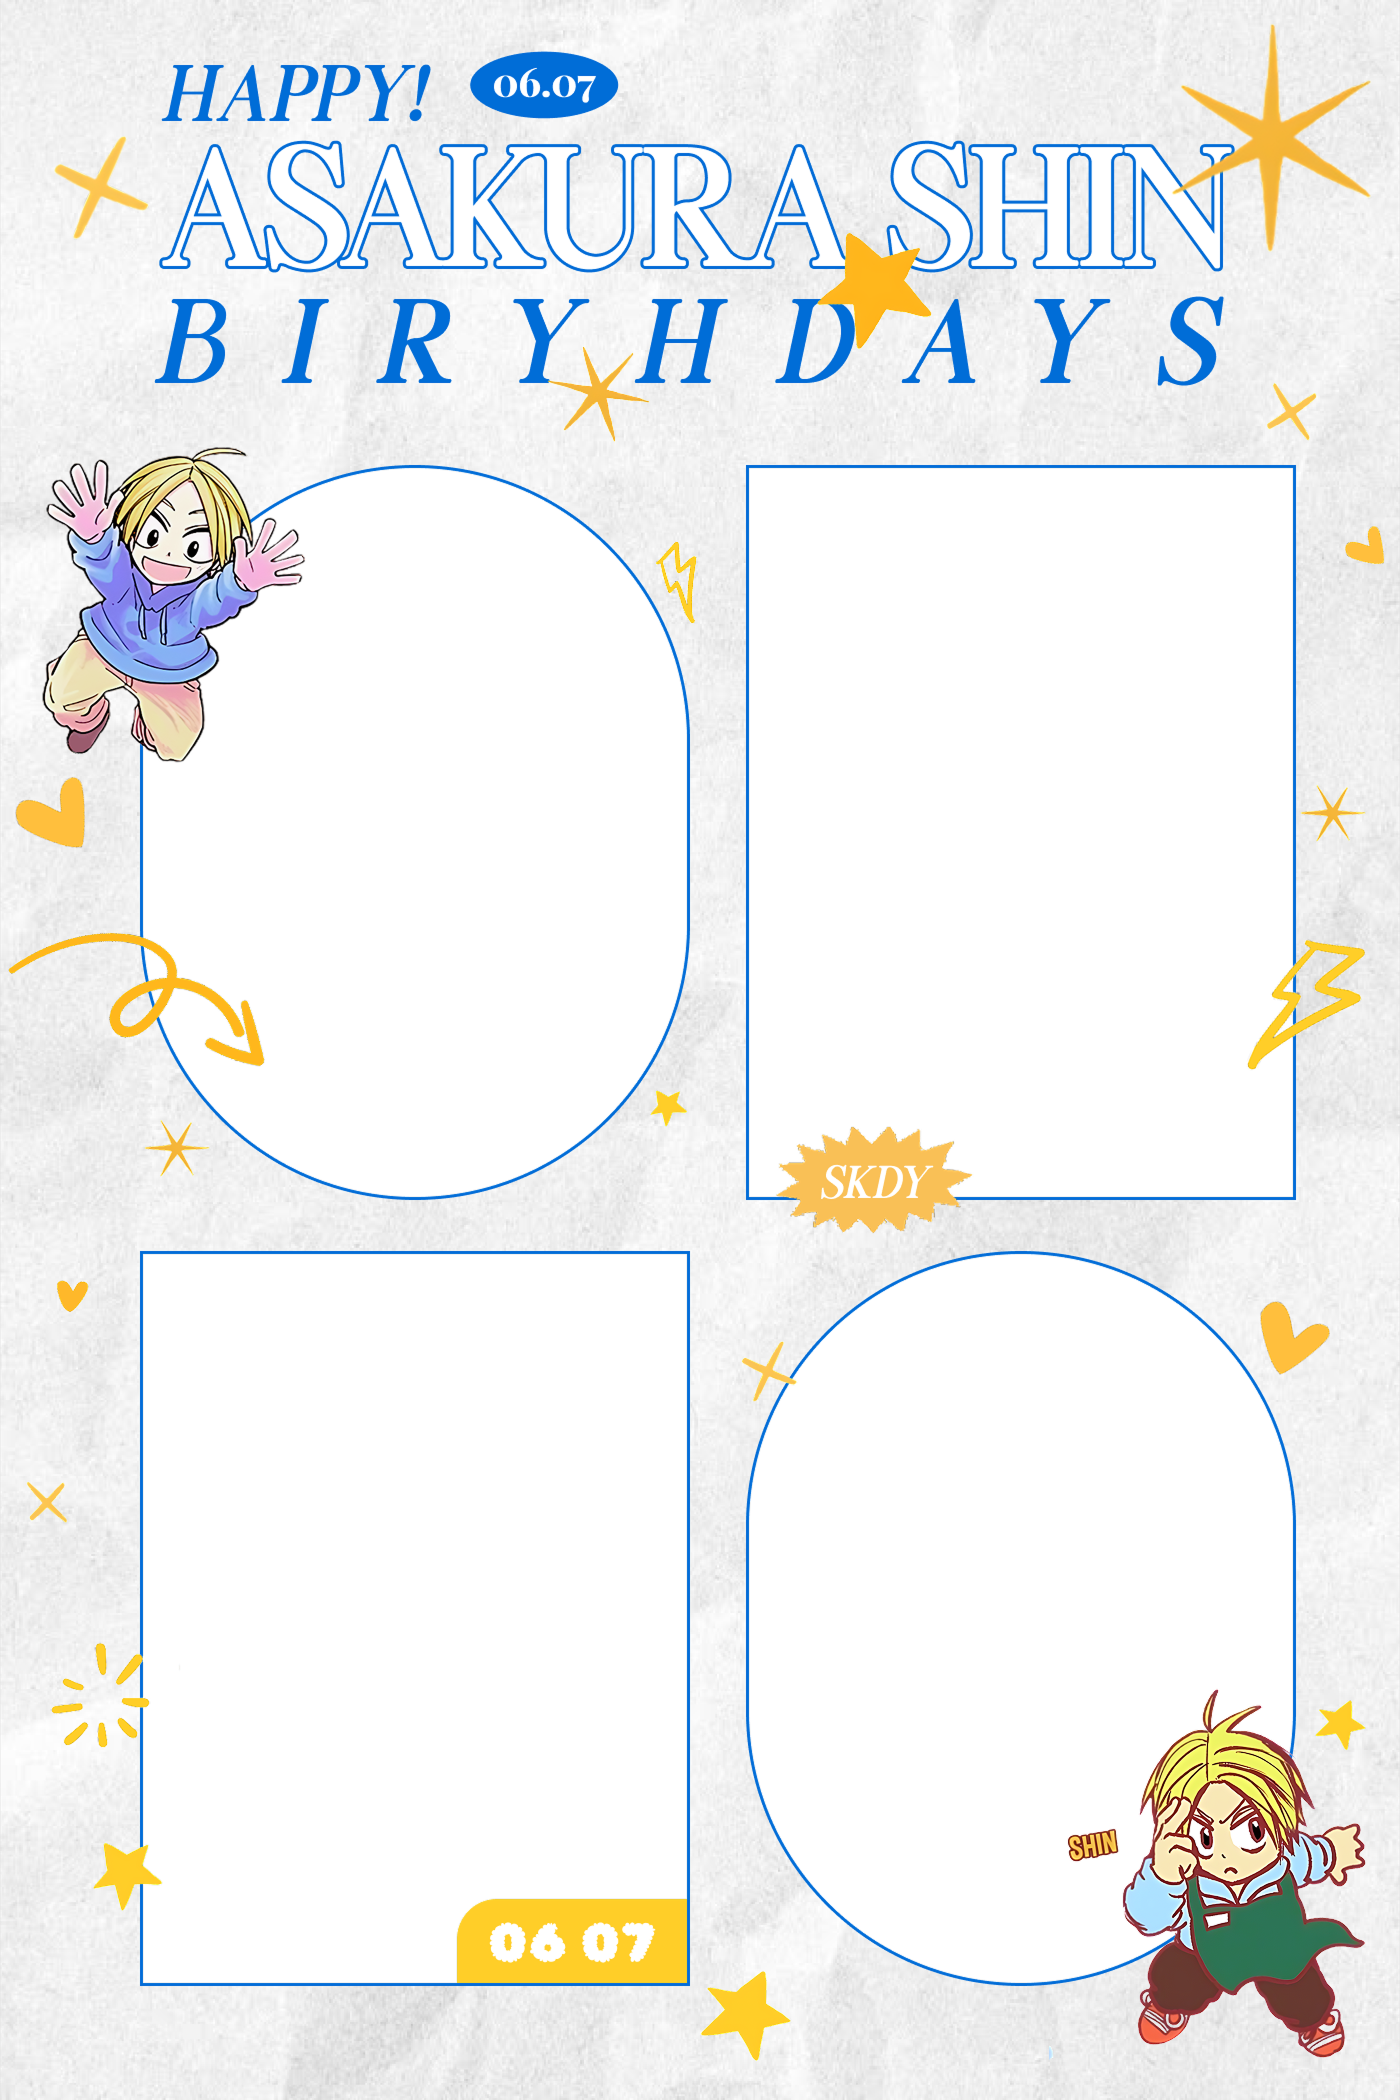
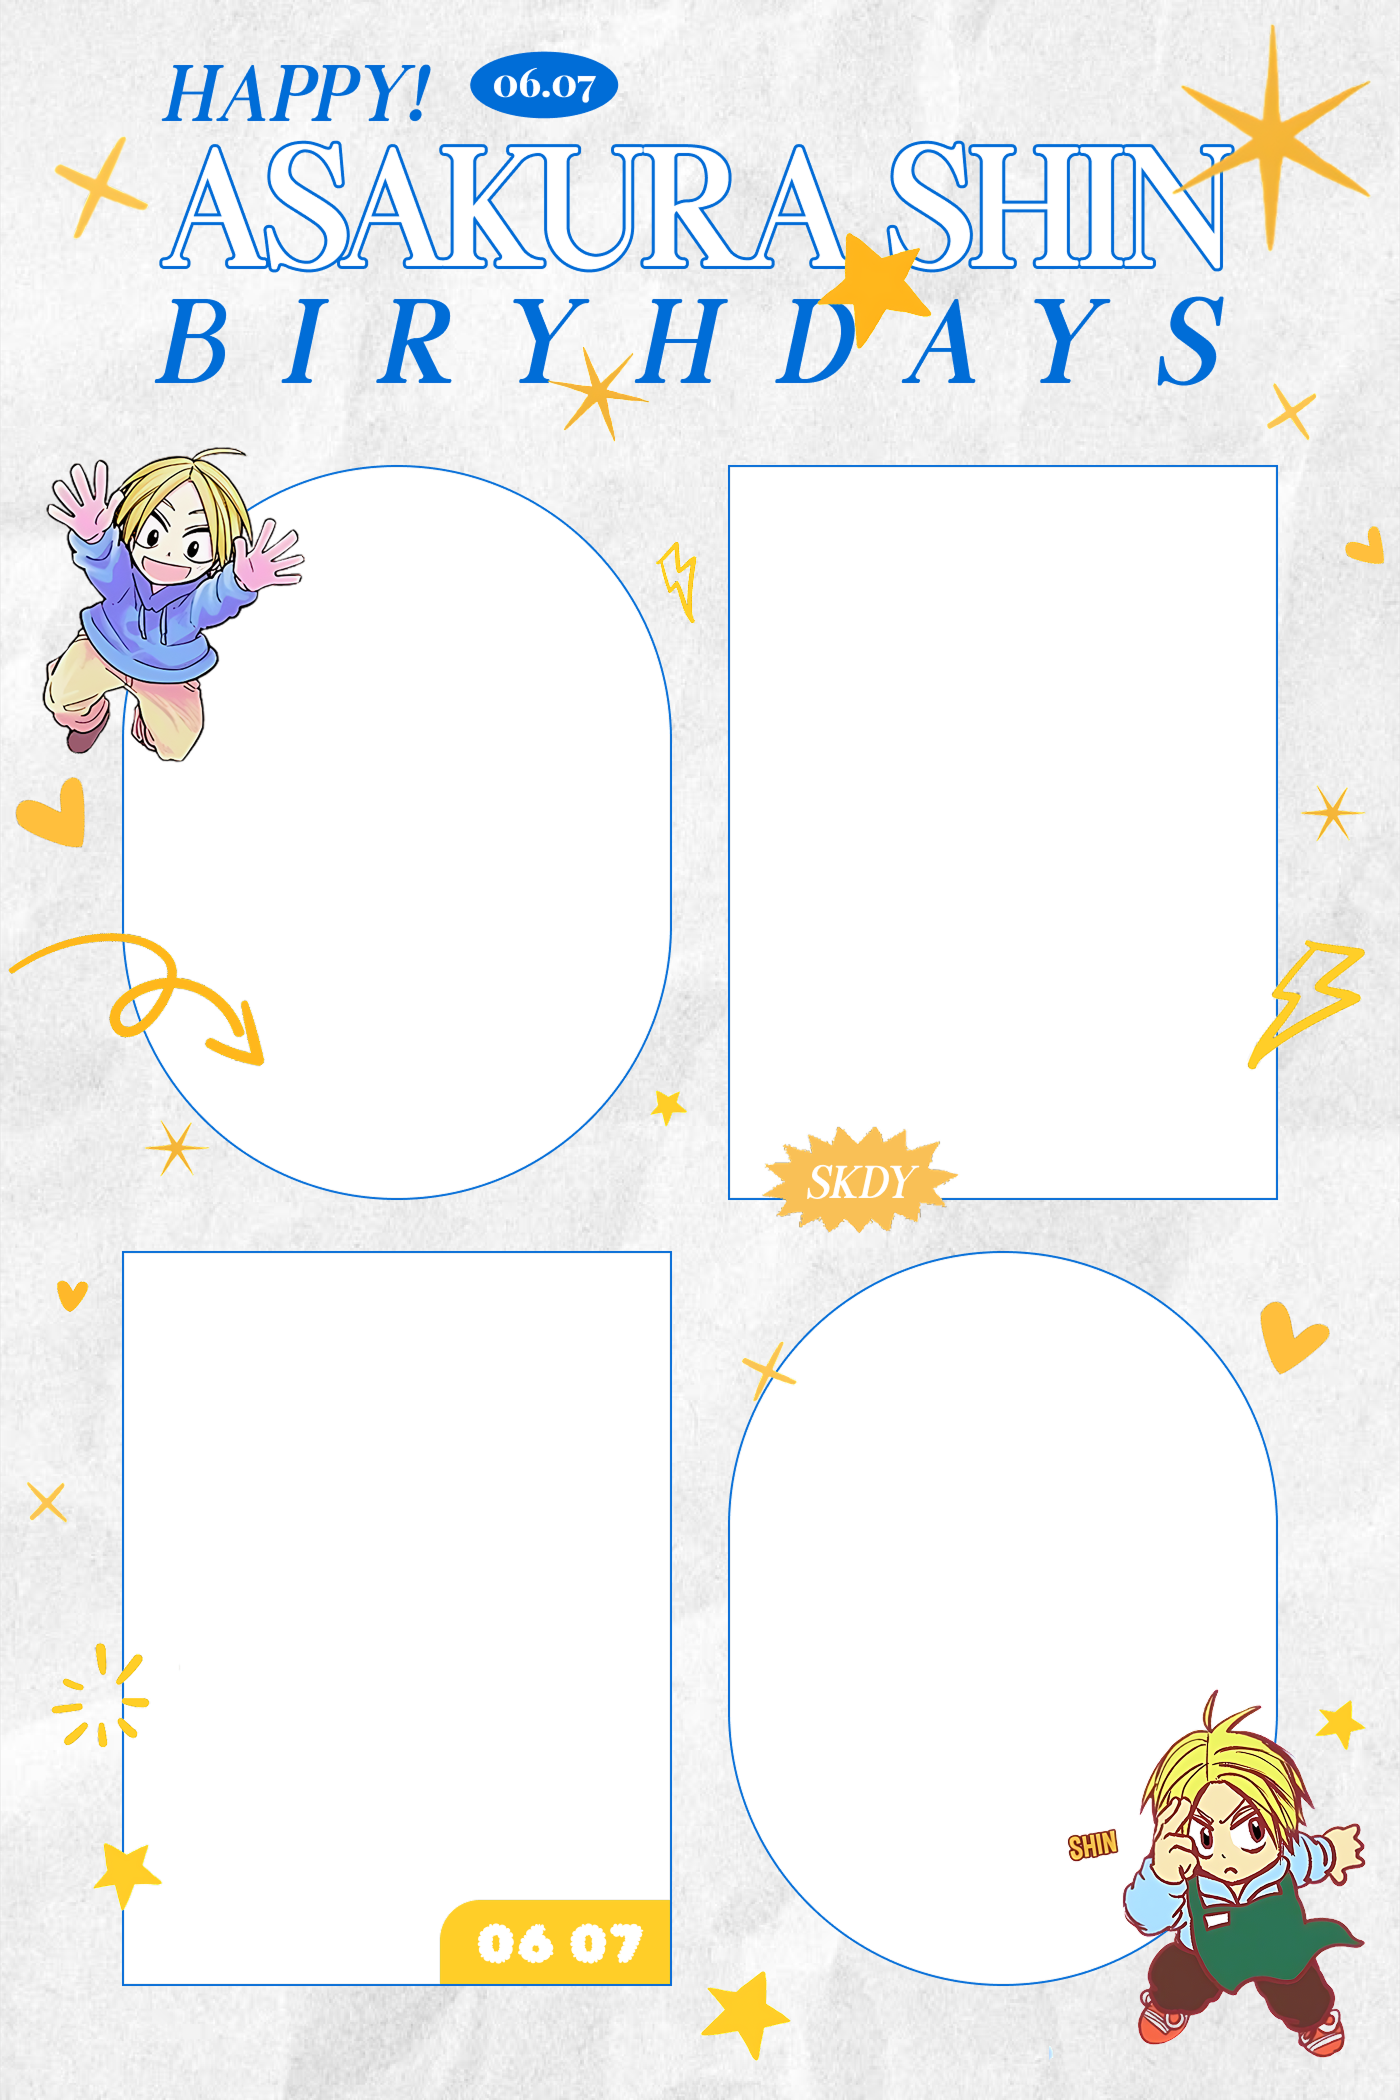
saveEdit white 프레임 스타일 반영

diff --git a/src/pages/SaveEditSnapshot/SaveEditSnapshot.module.scss b/src/pages/SaveEditSnapshot/SaveEditSnapshot.module.scss
@@ -54,10 +54,11 @@
     }
   }
   .editSaveEtc {
+    width: 100%;
+    max-width: 300px;
     display: flex;
     justify-content: center;
     flex-direction: column;
-    max-width: 300px;
   }
   .buttonContainer {
     display: flex;
@@ -117,10 +118,23 @@
       }
     }
     .buttonContainer {
-      gap: 16px;
+      gap: 12px;
       .etcButton {
-        height: 48px;
+        height: 44px;
+        font-size: 15px;
         margin: 35px auto 0;
+      }
+    }
+    &.white {
+      .capturedImgWrap {
+        padding: 100px 26px 30px 26px;
+        gap: 11px 12px;
+        flex-direction: row;
+        align-items: flex-start;
+        flex-wrap: wrap;
+        img {
+          width: calc(50% - 6px);
+        }
       }
     }
   }
@@ -153,6 +167,21 @@
         height: 50px;
         font-size: 18px;
         margin: 20px auto 20px;
+      }
+    }
+    &.white {
+      .resultFrameWrap {
+        width: 370px;
+      }
+      .capturedImgWrap {
+        padding: 122px 31px 36px 31px;
+        gap: 11px 14px;
+        flex-direction: row;
+        align-items: flex-start;
+        flex-wrap: wrap;
+        img {
+          width: calc(50% - 7px);
+        }
       }
     }
   }

diff --git a/src/pages/SaveEditSnapshot/SaveEditSnapshot.jsx b/src/pages/SaveEditSnapshot/SaveEditSnapshot.jsx
@@ -109,7 +109,8 @@ const SaveEditSnapshot = () => {
       className={classNames(
         styles.EditSaveContainer,
         isMobile ? styles.mobile : styles.pc,
-        isHorMobileOnly && styles.isHorMobileOnly
+        isHorMobileOnly && styles.isHorMobileOnly,
+        type === "white" && styles.white
       )}
     >
       <div className={styles.resultFrameWrap} ref={resultRef}>
